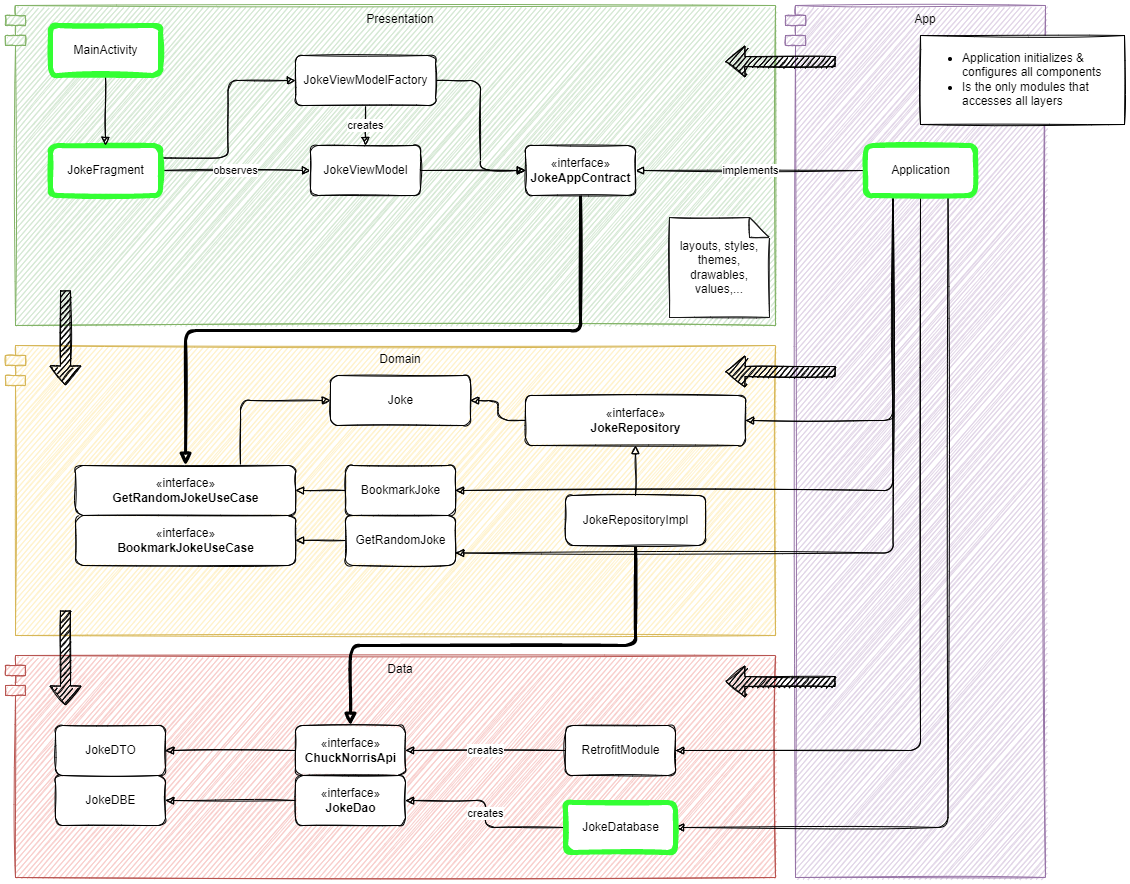
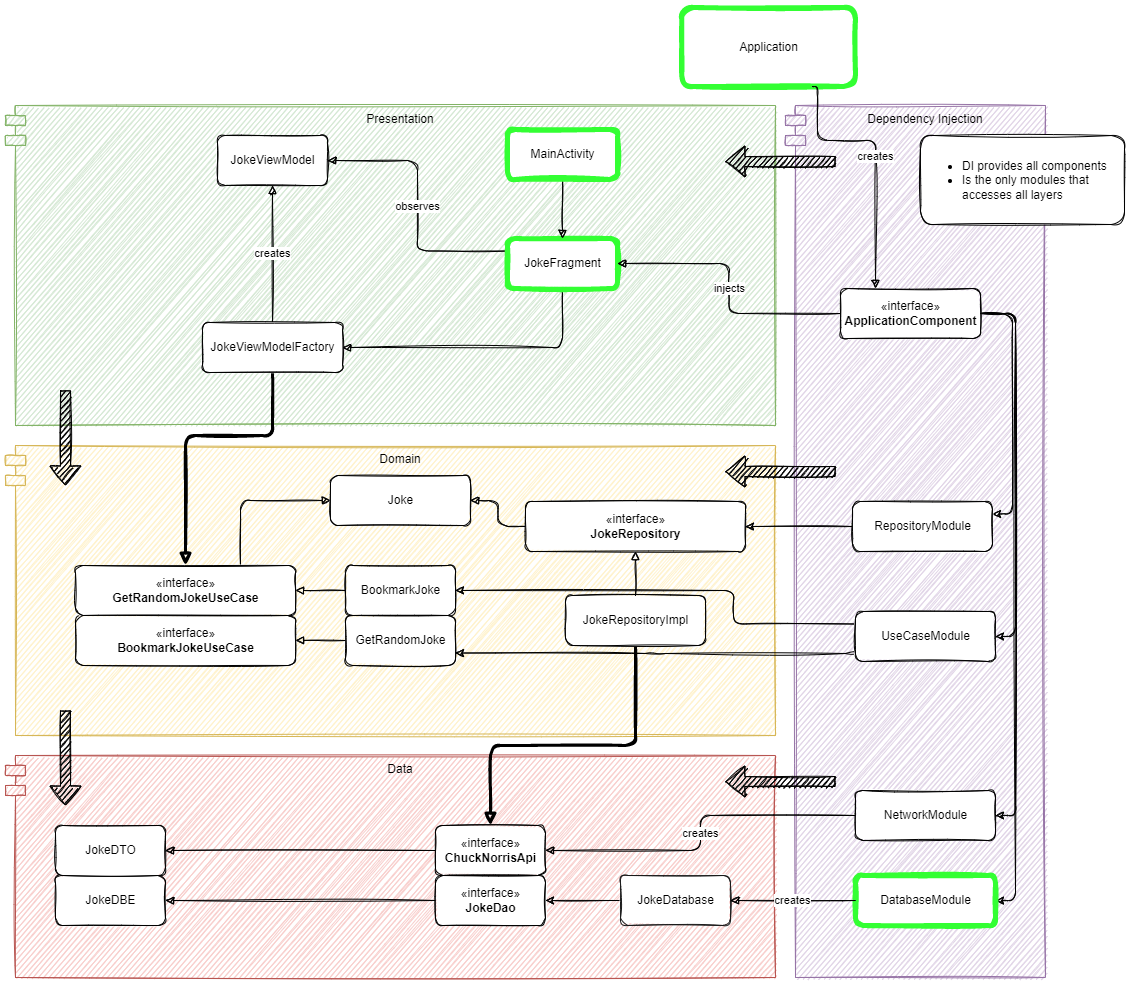
updates uml

diff --git a/app/src/test/java/at/frank/chuckjokes/integrationtests/RandomJokeViewStateIntegrationTest.kt b/app/src/test/java/at/frank/chuckjokes/integrationtests/RandomJokeViewStateIntegrationTest.kt
@@ -1,20 +1,35 @@
 package at.frank.chuckjokes.integrationtests
 
 import androidx.arch.core.executor.testing.InstantTaskExecutorRule
+import at.frank.chuckjokes.RxSchedulers
 import at.frank.chuckjokes.data.local.JokeDBE
 import at.frank.chuckjokes.data.local.JokeDao
 import at.frank.chuckjokes.data.remote.ChuckNorrisApi
-import at.frank.chuckjokes.domain.Joke
+import at.frank.chuckjokes.domain.*
 import at.frank.chuckjokes.presentation.randomjokes.RandomJokeViewModel
 import at.frank.chuckjokes.presentation.randomjokes.RandomJokeViewState
 import io.reactivex.Completable
 import io.reactivex.Flowable
 import io.reactivex.Single
+import io.reactivex.schedulers.Schedulers
 import org.junit.Assert.assertEquals
 import org.junit.Rule
 import org.junit.Test
 
 class RandomJokeViewStateIntegrationTest {
+
+    private class TestModules(api: ChuckNorrisApi, dao: JokeDao) {
+        val rxSchedulers = RxSchedulers(Schedulers.trampoline(), Schedulers.trampoline())
+
+        private val jokeRepository = JokeRepositoryImpl(api, dao)
+
+        val getRandomJokeUseCase: GetRandomJokeUseCase = GetRandomJoke(jokeRepository)
+        val bookmarkJokeUseCase: BookmarkJokeUseCase = BookmarkJoke(jokeRepository)
+        val getBookmarkedJokesUseCase: GetBookmarkedJokesUseCase =
+            GetBookmarkedJokes(jokeRepository)
+        val removeJokeFromBookmarksUseCase: RemoveJokeFromBookmarksUseCase =
+            RemoveJokeFromBookmarks(jokeRepository)
+    }
 
     @get:Rule
     val liveDataRule = InstantTaskExecutorRule()
@@ -51,9 +66,15 @@ class RandomJokeViewStateIntegrationTest {
 
         }
 
-        val integrationTestApp = JokeIntegrationTestApp(api, dao)
+        val testModules = TestModules(api, dao)
 
-        val viewModel = RandomJokeViewModel(integrationTestApp)
+        val viewModel = RandomJokeViewModel(
+            testModules.getRandomJokeUseCase,
+            testModules.getBookmarkedJokesUseCase,
+            testModules.bookmarkJokeUseCase,
+            testModules.removeJokeFromBookmarksUseCase,
+            testModules.rxSchedulers
+        )
         viewModel.loadInitialJoke()
 
         val actualViewState = viewModel.viewState.value
